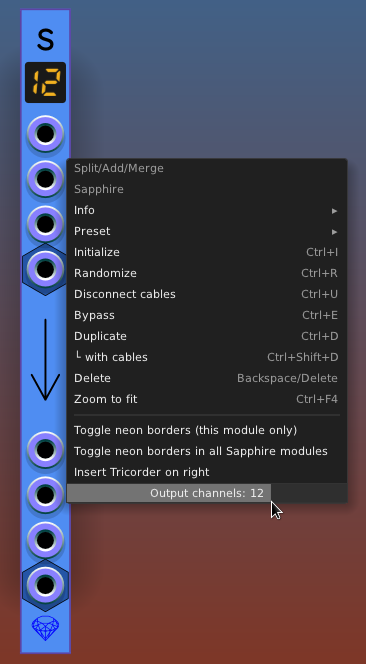
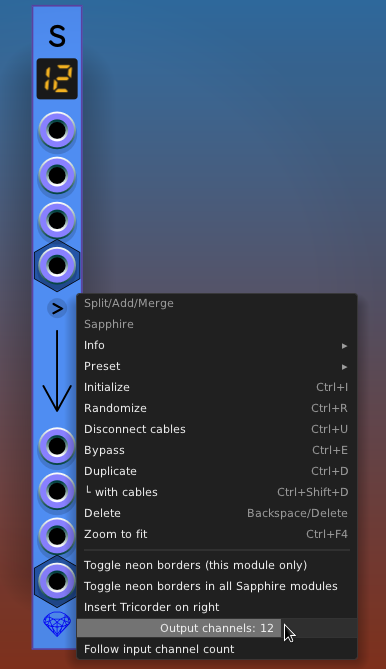
Split/Add/Merge: fixed #187 - add option to follow input channel count.

diff --git a/src/sam_vcv.cpp b/src/sam_vcv.cpp
@@ -44,6 +44,7 @@ namespace Sapphire
         struct SplitAddMergeModule : SapphireModule
         {
             ChannelCountQuantity *channelCountQuantity{};
+            bool followInputChannelCount{};
 
             SplitAddMergeModule()
                 : SapphireModule(PARAMS_LEN, OUTPUTS_LEN)
@@ -70,6 +71,7 @@ namespace Sapphire
             void initialize()
             {
                 channelCountQuantity->initialize();
+                followInputChannelCount = false;
             }
 
             void onReset(const ResetEvent& e) override
@@ -78,8 +80,28 @@ namespace Sapphire
                 initialize();
             }
 
-            int desiredChannelCount() const
+            int desiredChannelCount()
             {
+                if (followInputChannelCount)
+                {
+                    int nc = 1;     // always output at least 1 channel
+
+                    // Expand channel count to hold all the channels of any polyphonic input cable.
+                    nc = std::max<int>(nc, inputs.at(POLY_INPUT).getChannels());
+
+                    // If any of the monophonic ports (X, Y, Z) are connected,
+                    // expand the channel count as needed to include their signal(s).
+                    // No need to actually check X because we always output at least 1 channel anyway.
+
+                    if (nc<3 && inputs.at(Z_INPUT).isConnected())
+                        nc = 3;
+
+                    if (nc<2 && inputs.at(Y_INPUT).isConnected())
+                        nc = 2;
+
+                    return nc;
+                }
+
                 return channelCountQuantity->getDesiredChannelCount();
             }
 
@@ -87,19 +109,19 @@ namespace Sapphire
             {
                 json_t* root = SapphireModule::dataToJson();
                 json_object_set_new(root, "channels", json_integer(desiredChannelCount()));
+                jsonSetBool(root, "followInputChannelCount", followInputChannelCount);
                 return root;
             }
 
             void dataFromJson(json_t* root) override
             {
                 SapphireModule::dataFromJson(root);
-                json_t* channels = json_object_get(root, "channels");
-                if (json_is_integer(channels))
-                {
-                    json_int_t n = json_integer_value(channels);
-                    if (n >= 1 && n <= PORT_MAX_CHANNELS)
+
+                if (json_t* jChannels = json_object_get(root, "channels"); json_is_integer(jChannels))
+                    if (json_int_t n = json_integer_value(jChannels); n >= 1 && n <= PORT_MAX_CHANNELS)
                         channelCountQuantity->value = static_cast<float>(n);
-                }
+
+                jsonLoadBool(root, "followInputChannelCount", followInputChannelCount);
             }
 
             void process(const ProcessArgs& args) override
@@ -170,6 +192,13 @@ namespace Sapphire
                 if (splitAddMergeModule)
                 {
                     menu->addChild(new ChannelCountSlider(splitAddMergeModule->channelCountQuantity));
+
+                    BoolToggleAction::AddMenuItem(
+                        menu,
+                        splitAddMergeModule->followInputChannelCount,
+                        "Follow input channel count",
+                        "channel count mode"
+                    );
                 }
             }
         };

diff --git a/doc/SplitAddMerge.md b/doc/SplitAddMerge.md
@@ -17,11 +17,19 @@ and are larger than I need.
 
 ## Channel Count
 
-Split/Add/Merge has an adjustable channel count 1..16. Right-click on the panel and slide the horizontal bar labeled "Output channels". This slider controls the number of channels on the polyphonic output port, which is the port at the bottom of the panel.
+The number of channels of polyphonic output can be manually controlled or automatic.
+
+For manual control, Split/Add/Merge has an adjustable channel count 1..16. Right-click on the panel and slide the horizontal bar labeled "Output channels". This slider controls the number of channels on the polyphonic output port, which is the port at the bottom of the panel.
 
 ![Split/Add/Merge channel count control](images/split_channel_count.png)
 
 Any channels beyond the selected channel count are discarded. Any extra channels created by the slider are set to 0 volts.
+
+For automatic control, use the option "Follow input channel count" in the right-click menu. When enabled, Split/Add/Merge checks both the input monophonic ports (X, Y, Z) and the polyphonic input port (P).
+
+If a cable is connected to the P input, the output will have at least as many channels as the P input cable.
+
+If there is a cable connected to the Z input, the output will have at least 3 channels. If there is a cable attached to the Y input, there will be at least 2 output channels. There is always at least 1 channel of output whether or not X is connected.
 
 ## Input Ports
 

diff --git a/CHANGELOG.md b/CHANGELOG.md
@@ -9,16 +9,17 @@
 </tr>
 
 <tr valign="top">
-<td align="center">13 Apr 2026</td>
+<td align="center">21 Apr 2026</td>
 <td align="center">2.6.004</td>
 <td align="left">
     <ul>
-        <li>Added new module: <a href="doc/Empath.md">Empath</a>.</li>
+        <li>Added new module: <a href="doc/Empath.md">Empath</a>. This is a multi-path expander chain of parallel filters.</li>
         <li>Now when you right-click on any Sapphire attenuverter knob, there is a new menu option "Unipolar mode". Enabling unipolar mode adds 5 volts to the CV input. If the result is still negative, the unipolar option converts it to zero volts. The idea is to allow CV to act more like a unipolar signal. A symbol `U` appears near the attenuverter when unipolar mode is active.</li>
         <li>The following modules have speed/frequency attenuverter knobs with a new option "Snap to V/OCT": <a href="doc/Pop.md">Pop</a>, <a href="doc/Gravy.md">Gravy</a>, <a href="doc/Sauce.md">Sauce</a>. This action sets the attenuverter to the correct setting for V/OCT behavior on the input port. The <a href="doc/SapphireChaosModules.md">chaos modules</a> already had "Snap to V/OCT" on the SPEED attenuverter, but in their case for a different value (5/14 = 35.714%). These changes provide a uniform way to select V/OCT behavior.</li>
         <li>Fixed a bug when <a href="doc/Echo.md">Echo</a> is given monophonic input to the L input port only. Echo was incorrectly dividing the voltage by 2 before sending to the left and right channels. This does not match the documented behavior of sending the monophonic input equally to both channels (or "normalling"). This has been fixed, but it means older patches may have to adjust levels. There is no issue in other cases like stereo input or polyphonic input; they all work correctly and have not been changed.</li>
         <li>Multiple <a href="doc/Hiss.md">Hiss</a> modules in a patch were generating the same sequence. Now initialize with 64-bits of entropy so they are all different. Save the seed in the patch for repeatable behavior on patch reset.</li>
         <li>There was a similar problem in <a href="doc/Pop.md">Pop</a>. Each of Pop's 16 channels now starts with 64-bits of entropy, all of which are saved/loaded in the patch for repeatable behavior.</li>
+        <li>Added option "Follow input channel count" to <a href="doc/SplitAddMerge.md">Split/Add/Merge</a>, allowing the output cable's channel count automatically match the input cables.</li>
     </ul>
 </td>
 </tr>